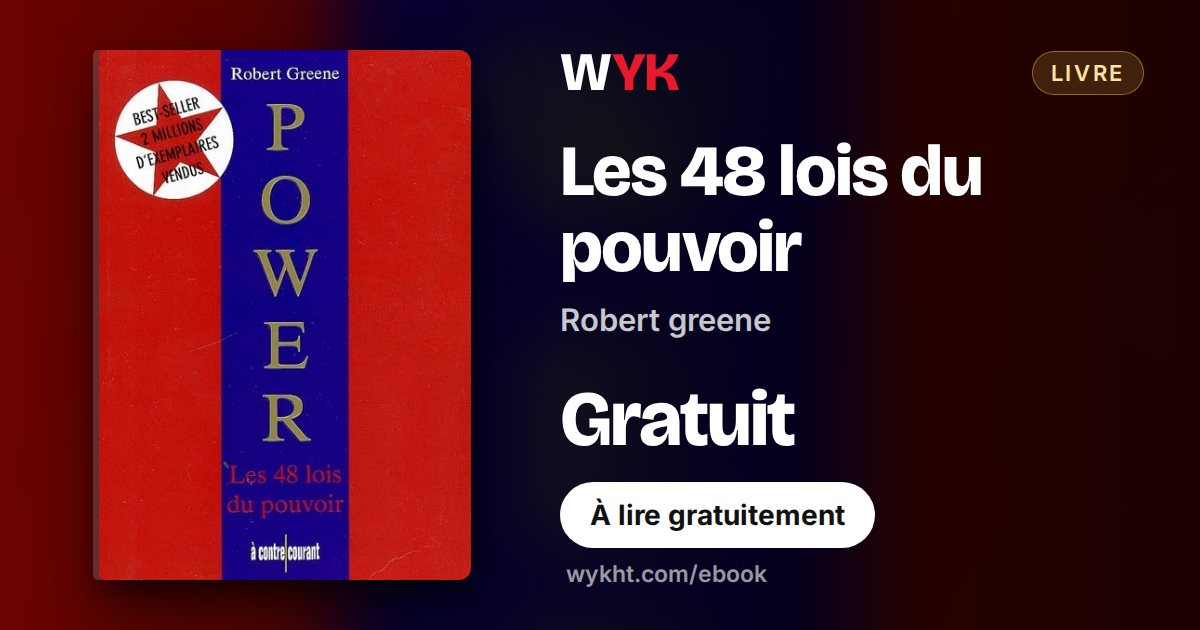
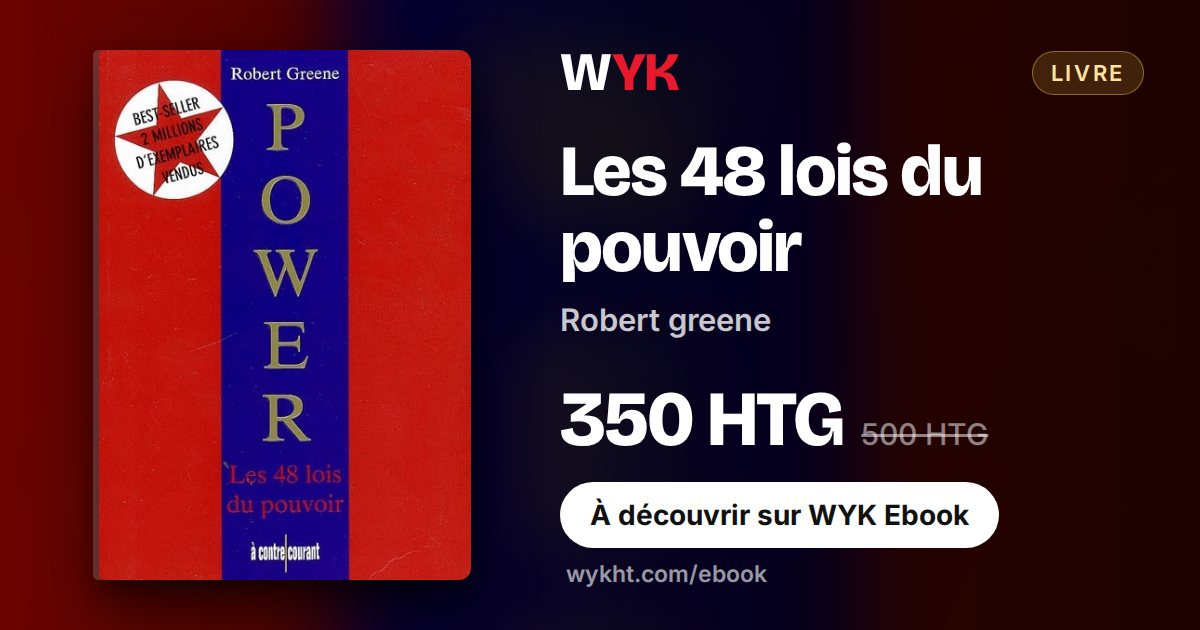
Fiches produit (auto)

Changed region(s): [[0.4625, 0.6032, 0.8325, 0.7238], [0.4933, 0.754, 0.8325, 0.8746]]

diff --git a/livre/d7srud9.html b/livre/d7srud9.html
@@ -4,15 +4,15 @@
 <meta charset="UTF-8">
 <meta name="viewport" content="width=device-width,initial-scale=1">
 <title>Les 48 lois du pouvoir de Robert greene — Livre | WYK Ebook</title>
-<meta name="description" content="Livre « Les 48 lois du pouvoir » de Robert greene — Gratuit sur WYK Ebook. Ce livre explore les mécanismes du pouvoir, de l&#39;influence et de la psychologie humaine. Il enseigne comment comprendre les autres, préserver sa réputation et développer son intelligence sociale. Les principales leçons : •…">
+<meta name="description" content="Livre « Les 48 lois du pouvoir » de Robert greene — 350 HTG sur WYK Ebook. Ce livre explore les mécanismes du pouvoir, de l&#39;influence et de la psychologie humaine. Il enseigne comment comprendre les autres, préserver sa réputation et développer son intelligence sociale. Les principales leçons : •…">
 <meta name="robots" content="index, follow, max-image-preview:large">
 <link rel="canonical" href="https://wykht.com/livre/d7srud9">
 <meta property="og:site_name" content="WYK">
 <meta property="og:type" content="book">
 <meta property="og:locale" content="fr_HT">
 <meta property="og:url" content="https://wykht.com/livre/d7srud9">
-<meta property="og:title" content="Les 48 lois du pouvoir de Robert greene — Gratuit">
-<meta property="og:description" content="Livre « Les 48 lois du pouvoir » de Robert greene — Gratuit sur WYK Ebook. Ce livre explore les mécanismes du pouvoir, de l&#39;influence et de la psychologie humaine. Il enseigne comment comprendre les autres, préserver sa réputation et développer son intelligence sociale. Les principales leçons : •…">
+<meta property="og:title" content="Les 48 lois du pouvoir de Robert greene — 350 HTG">
+<meta property="og:description" content="Livre « Les 48 lois du pouvoir » de Robert greene — 350 HTG sur WYK Ebook. Ce livre explore les mécanismes du pouvoir, de l&#39;influence et de la psychologie humaine. Il enseigne comment comprendre les autres, préserver sa réputation et développer son intelligence sociale. Les principales leçons : •…">
 <meta property="og:image" content="https://wykht.com/og/livre-d7srud9.jpg">
 <meta property="og:image:secure_url" content="https://wykht.com/og/livre-d7srud9.jpg">
 <meta property="og:image:type" content="image/jpeg">
@@ -20,11 +20,11 @@
 <meta property="og:image:height" content="630">
 <meta property="og:image:alt" content="Couverture : Les 48 lois du pouvoir">
 <meta name="twitter:card" content="summary_large_image">
-<meta name="twitter:title" content="Les 48 lois du pouvoir de Robert greene — Gratuit">
-<meta name="twitter:description" content="Livre « Les 48 lois du pouvoir » de Robert greene — Gratuit sur WYK Ebook. Ce livre explore les mécanismes du pouvoir, de l&#39;influence et de la psychologie humaine. Il enseigne comment comprendre les autres, préserver sa réputation et développer son intelligence sociale. Les principales leçons : •…">
+<meta name="twitter:title" content="Les 48 lois du pouvoir de Robert greene — 350 HTG">
+<meta name="twitter:description" content="Livre « Les 48 lois du pouvoir » de Robert greene — 350 HTG sur WYK Ebook. Ce livre explore les mécanismes du pouvoir, de l&#39;influence et de la psychologie humaine. Il enseigne comment comprendre les autres, préserver sa réputation et développer son intelligence sociale. Les principales leçons : •…">
 <meta name="twitter:image" content="https://wykht.com/og/livre-d7srud9.jpg">
 <link rel="icon" type="image/png" href="https://wykht.com/assets/brand/wyk-icon.png">
-<script type="application/ld+json">{"@context":"https://schema.org","@type":"Book","@id":"https://wykht.com/livre/d7srud9#book","url":"https://wykht.com/livre/d7srud9","name":"Les 48 lois du pouvoir","image":["https://byrklytqoucdskzvcoau.supabase.co/storage/v1/object/public/wyk-images/ebook/1795777507496_o38ht2m.webp","https://wykht.com/og/livre-d7srud9.jpg"],"description":"Ce livre explore les mécanismes du pouvoir, de l'influence et de la psychologie humaine. Il enseigne comment comprendre les autres, préserver sa réputation et développer son intelligence sociale.\nLes principales leçons :\n• Maîtriser ses émotions et ses réactions.\n• Protéger sa réputation et son image.\n• Observer avant d'agir et comprendre les intentions.\n• Savoir communiquer et garder le silence au bon moment.\n• Réfléchir stratégiquement avant chaque décision.\n• Faire preuve de discrétion dans ses projets.\n• S'adapter aux situations et aux changements.\nÀ retenir : le véritable pouvoir commence par la maîtrise de soi, la compréhension des autres et l'intelligence dans ses décisions.","inLanguage":"fr","author":{"@type":"Person","name":"Robert greene"},"numberOfPages":463,"offers":{"@type":"Offer","url":"https://wykht.com/livre/d7srud9","price":"0","priceCurrency":"HTG","availability":"https://schema.org/InStock"}}</script>
+<script type="application/ld+json">{"@context":"https://schema.org","@type":"Book","@id":"https://wykht.com/livre/d7srud9#book","url":"https://wykht.com/livre/d7srud9","name":"Les 48 lois du pouvoir","image":["https://byrklytqoucdskzvcoau.supabase.co/storage/v1/object/public/wyk-images/ebook/1795777507496_o38ht2m.webp","https://wykht.com/og/livre-d7srud9.jpg"],"description":"Ce livre explore les mécanismes du pouvoir, de l'influence et de la psychologie humaine. Il enseigne comment comprendre les autres, préserver sa réputation et développer son intelligence sociale.\nLes principales leçons :\n• Maîtriser ses émotions et ses réactions.\n• Protéger sa réputation et son image.\n• Observer avant d'agir et comprendre les intentions.\n• Savoir communiquer et garder le silence au bon moment.\n• Réfléchir stratégiquement avant chaque décision.\n• Faire preuve de discrétion dans ses projets.\n• S'adapter aux situations et aux changements.\nÀ retenir : le véritable pouvoir commence par la maîtrise de soi, la compréhension des autres et l'intelligence dans ses décisions.","inLanguage":"fr","author":{"@type":"Person","name":"Robert greene"},"numberOfPages":463,"offers":{"@type":"Offer","url":"https://wykht.com/livre/d7srud9","price":"350","priceCurrency":"HTG","availability":"https://schema.org/InStock"}}</script>
 <script>location.replace("/ebook#l-d7srud9")</script>
 <style>:root{--bg:#f6f5f2;--card:#fff;--ink:#101010;--mut:rgba(16,16,16,.62);--line:rgba(128,128,128,.22)}@media(prefers-color-scheme:dark){:root{--bg:#0d0d0c;--card:#181817;--ink:#f4f4f2;--mut:rgba(244,244,242,.62);--line:rgba(255,255,255,.12)}}
 *{box-sizing:border-box}body{margin:0;font-family:system-ui,-apple-system,Segoe UI,Roboto,sans-serif;background:var(--bg);color:var(--ink);line-height:1.55}
@@ -36,7 +36,7 @@
 <body>
 <div class="w"><main><article class="card">
 <img src="https://byrklytqoucdskzvcoau.supabase.co/storage/v1/object/public/wyk-images/ebook/1795777507496_o38ht2m.webp" alt="Couverture : Les 48 lois du pouvoir" width="200" height="300" decoding="async">
-<div><h1>Les 48 lois du pouvoir</h1><p class="au">Robert greene · Livre</p><p class="pr">Gratuit</p><p class="s">Ce livre explore les mécanismes du pouvoir, de l&#39;influence et de la psychologie humaine. Il enseigne comment comprendre les autres, préserver sa réputation et développer son intelligence sociale. Les principales leçons : • Maîtriser ses émotions et ses réactions. • Protéger sa réputation et son image. • Observer avant d&#39;agir et comprendre les intentions. • Savoir communiquer et garder le silence au bon moment. • Réfléchir stratégiquement avant chaque décision. • Faire preuve de discrétion dans…</p><a class="bt" href="/ebook#l-d7srud9">Ouvrir dans WYK Ebook</a></div>
+<div><h1>Les 48 lois du pouvoir</h1><p class="au">Robert greene · Livre</p><p class="pr">350 HTG</p><p class="s">Ce livre explore les mécanismes du pouvoir, de l&#39;influence et de la psychologie humaine. Il enseigne comment comprendre les autres, préserver sa réputation et développer son intelligence sociale. Les principales leçons : • Maîtriser ses émotions et ses réactions. • Protéger sa réputation et son image. • Observer avant d&#39;agir et comprendre les intentions. • Savoir communiquer et garder le silence au bon moment. • Réfléchir stratégiquement avant chaque décision. • Faire preuve de discrétion dans…</p><a class="bt" href="/ebook#l-d7srud9">Ouvrir dans WYK Ebook</a></div>
 </article></main></div>
 </body>
 </html>
